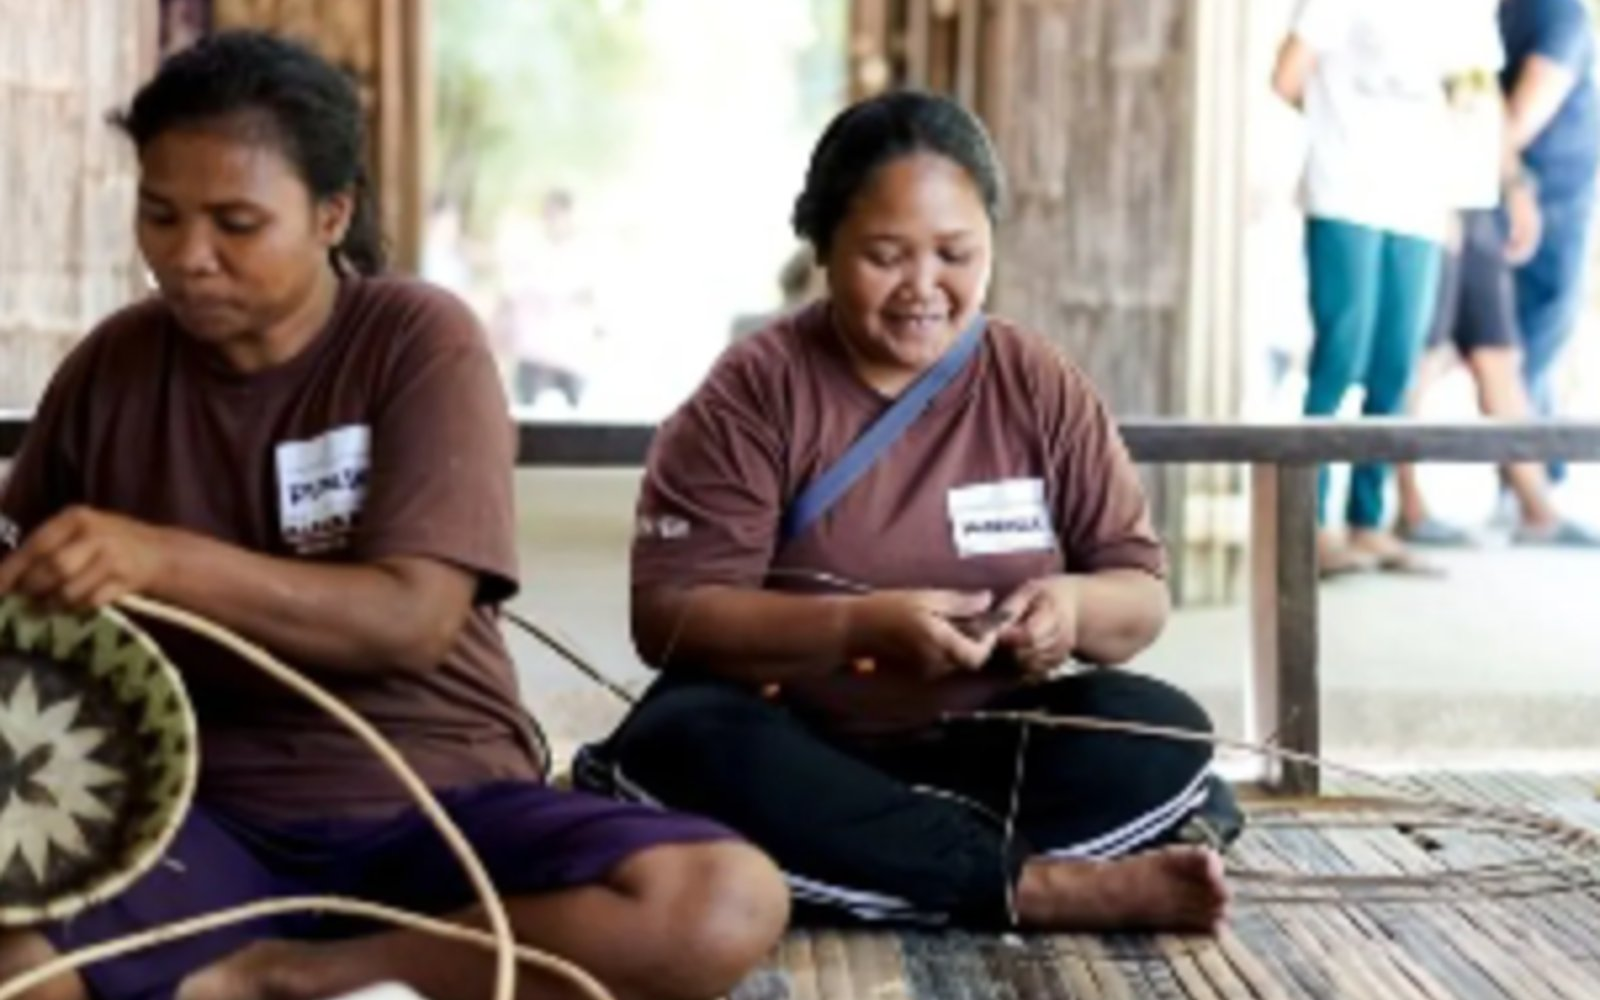
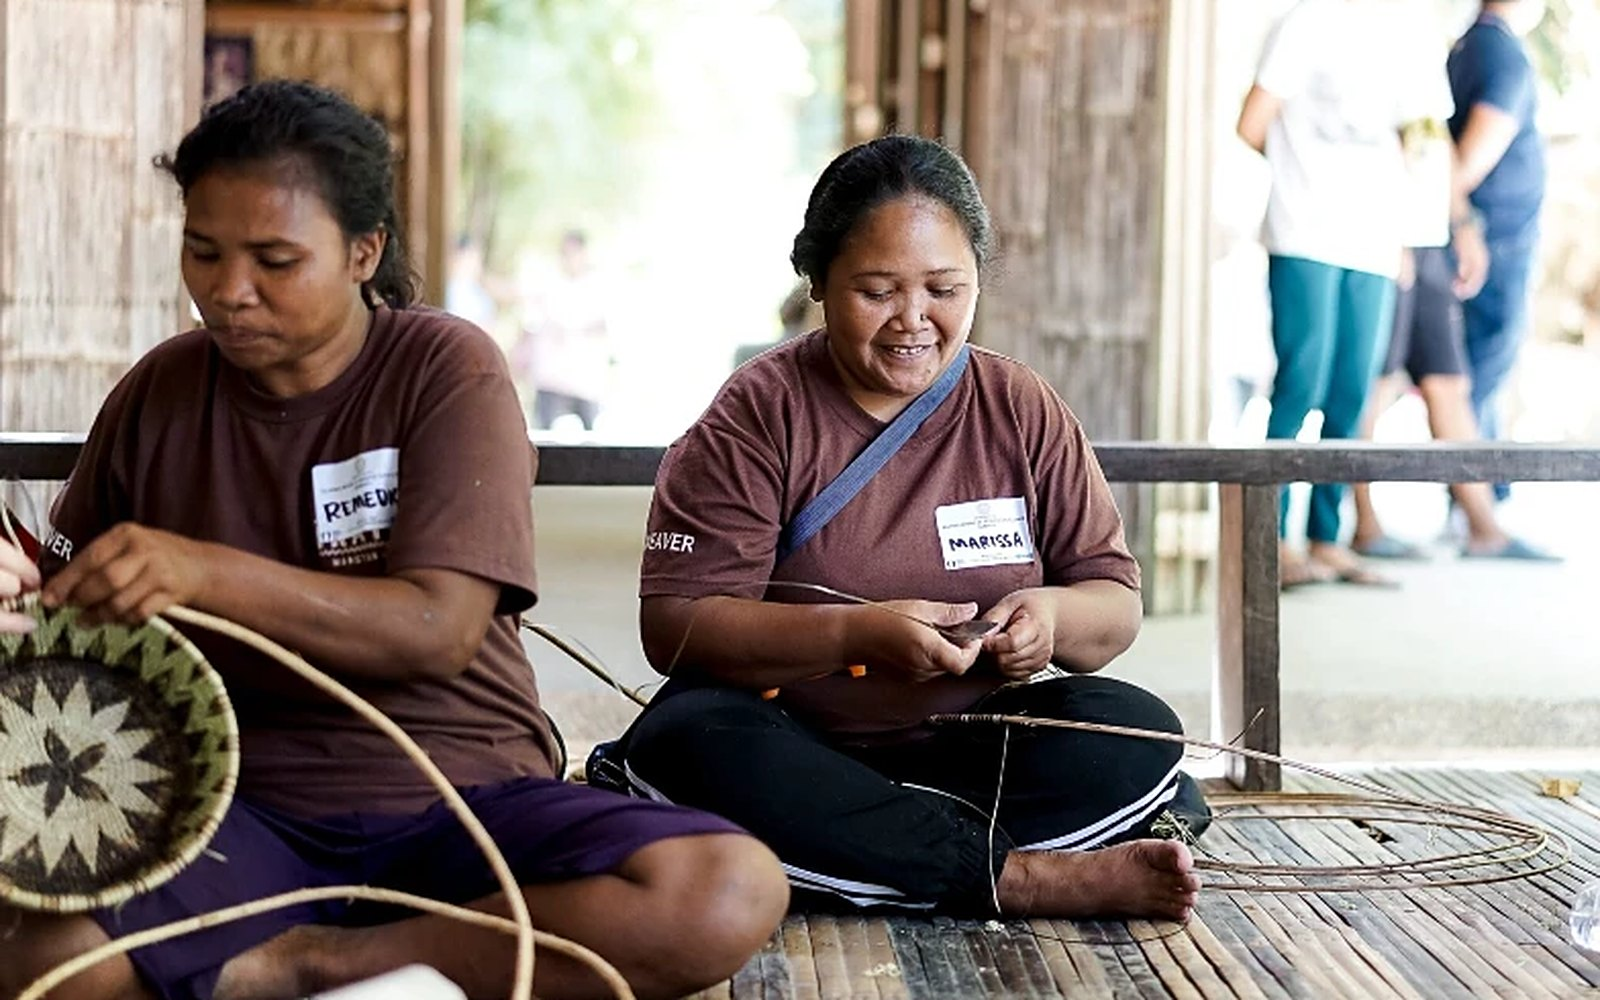
English only for now, blue bottom bar, white All pillars text; new Community photo
- Language switch hidden on the kiosk and the phone (window.LANGUAGES
  in copy.js); Filipino text stays in the files so it can come back
- Bottom bar background is #0320AF
- All pillars button keeps the orange and now has white text and icon
- Community Development card and pillar banner use the new weavers
  photo, cropped to 16:10

Claude-Session: https://claude.ai/code/session_01FqaYk324Zk7nC47oQgm8ZS

diff --git a/app.js b/app.js
@@ -30,7 +30,7 @@
       'chevron-blue-32': chevron(32, '#0322B1'),
       'back': back(28, '#FFFFFF'),
       'back-blue-32': back(32, '#0322B1'),
-      'grid': '<svg width="28" height="28" viewBox="0 0 24 24" fill="none" style="display:block"><rect x="3" y="3" width="7" height="7" rx="1" fill="#041F3F"/><rect x="14" y="3" width="7" height="7" rx="1" fill="#041F3F"/><rect x="3" y="14" width="7" height="7" rx="1" fill="#041F3F"/><rect x="14" y="14" width="7" height="7" rx="1" fill="#041F3F"/></svg>',
+      'grid': '<svg width="28" height="28" viewBox="0 0 24 24" fill="none" style="display:block"><rect x="3" y="3" width="7" height="7" rx="1" fill="#FFFFFF"/><rect x="14" y="3" width="7" height="7" rx="1" fill="#FFFFFF"/><rect x="3" y="14" width="7" height="7" rx="1" fill="#FFFFFF"/><rect x="14" y="14" width="7" height="7" rx="1" fill="#FFFFFF"/></svg>',
       'info': '<svg width="28" height="28" viewBox="0 0 24 24" fill="none" style="display:block"><circle cx="12" cy="12" r="9.5" stroke="#FFFFFF" stroke-width="2.5"/><path d="M12 11v6M12 7.5v.5" stroke="#FFFFFF" stroke-width="2.5" stroke-linecap="round"/></svg>',
       'check-blue': check('#0322B1'),
       'check-orange': check('#F0781E')
@@ -58,7 +58,10 @@
 
   $$('[data-icon]').forEach((el) => { el.innerHTML = ICONS[el.dataset.icon] || ''; el.style.display = 'flex'; el.style.flex = 'none'; });
 
+  // One language: no switch (see window.LANGUAGES in copy.js).
+  const MULTI_LANG = (window.LANGUAGES || ['en', 'fil']).length > 1;
   $$('[data-lang-switch]').forEach((el) => {
+    el.hidden = !MULTI_LANG;
     el.setAttribute('role', 'radiogroup');
     el.setAttribute('aria-label', 'Language');
     el.innerHTML =

diff --git a/index.html b/index.html
@@ -18,7 +18,7 @@
 <link rel="preconnect" href="https://fonts.googleapis.com">
 <link rel="preconnect" href="https://fonts.gstatic.com" crossorigin>
 <link href="https://fonts.googleapis.com/css2?family=Schibsted+Grotesk:wght@400;500;600;700;800&amp;display=swap" rel="stylesheet">
-<link rel="stylesheet" href="styles.css?v=20261019052048">
+<link rel="stylesheet" href="styles.css?v=20261019052509">
 </head>
 <body>
 <div class="viewport">
@@ -190,9 +190,9 @@
 
 </div>
 </div>
-<script src="copy.js?v=20261019052048"></script>
-<script src="programs.js?v=20261019052048"></script>
-<script src="project-view.js?v=20261019052048"></script>
-<script src="app.js?v=20261019052048"></script>
+<script src="copy.js?v=20261019052509"></script>
+<script src="programs.js?v=20261019052509"></script>
+<script src="project-view.js?v=20261019052509"></script>
+<script src="app.js?v=20261019052509"></script>
 </body>
 </html>

diff --git a/mobile.html b/mobile.html
@@ -7,7 +7,7 @@
 <link rel="preconnect" href="https://fonts.googleapis.com">
 <link rel="preconnect" href="https://fonts.gstatic.com" crossorigin>
 <link href="https://fonts.googleapis.com/css2?family=Schibsted+Grotesk:wght@400;500;600;700;800&amp;display=swap" rel="stylesheet">
-<link rel="stylesheet" href="mobile.css?v=20261019052048">
+<link rel="stylesheet" href="mobile.css?v=20261019052509">
 </head>
 <body>
 <div class="page">
@@ -152,9 +152,9 @@
 
 </div>
 </div>
-<script src="copy.js?v=20261019052048"></script>
-<script src="programs.js?v=20261019052048"></script>
-<script src="project-view.js?v=20261019052048"></script>
-<script src="mobile.js?v=20261019052048"></script>
+<script src="copy.js?v=20261019052509"></script>
+<script src="programs.js?v=20261019052509"></script>
+<script src="project-view.js?v=20261019052509"></script>
+<script src="mobile.js?v=20261019052509"></script>
 </body>
 </html>

diff --git a/styles.css b/styles.css
@@ -9,6 +9,7 @@
   --ink: #1C3557;
   --ink-soft: #3D5A80;
   --tint: #EAF1FA;
+  --footer: #0320AF;
   --ease-out: cubic-bezier(0.23, 1, 0.32, 1);
   --ease-in-out: cubic-bezier(0.77, 0, 0.175, 1);
 }
@@ -105,7 +106,7 @@ img { -webkit-user-drag: none; user-select: none; }
 .bar {
   grid-row: 2;
   grid-column: 1 / -1;
-  background: var(--blue-dark);
+  background: var(--footer);
   display: flex;
   align-items: center;
   justify-content: space-between;
@@ -135,7 +136,7 @@ img { -webkit-user-drag: none; user-select: none; }
   align-items: center;
   gap: 14px;
   background: var(--orange);
-  color: var(--navy);
+  color: #FFFFFF;
   font-size: 30px;
   font-weight: 700;
   border-radius: 4px;

diff --git a/mobile.js b/mobile.js
@@ -46,6 +46,9 @@
 
   $$('[data-icon]').forEach((el) => { el.innerHTML = ICONS[el.dataset.icon] || ''; });
 
+  // One language: no switch (see window.LANGUAGES in copy.js).
+  $('.lang').hidden = (window.LANGUAGES || ['en', 'fil']).length < 2;
+
   // Project heroes stay stacked; only the current one shows.
   $('#pjHeroes').innerHTML = Object.keys(PROJECTS).filter((id) => PROJECTS[id].hero).map((id) => {
     const h = PROJECTS[id].hero;

diff --git a/copy.js b/copy.js
@@ -1,4 +1,10 @@
 // English and Filipino copy shared by the kiosk (index.html) and the phone page (mobile.html).
+
+// Languages offered on screen. With one language the English/Filipino switch is
+// hidden. Filipino text stays in this file and programs.js: add 'fil' back to
+// turn the switch on again.
+window.LANGUAGES = ['en'];
+
 window.COPY = {
   en: {
     title: 'Arts and Culture',

diff --git a/README.md b/README.md
@@ -13,6 +13,8 @@ Plain HTML/CSS/JS with no build step. It is built from the Claude Design files "
 - Each screen has its own address, so the phone's back button works: `#pillars`, `#arts`, `#leadership`, `#bigbets`, `#community`, and `#program/<id>` (e.g. `#program/museum`). Older `#programs` and `#project/<id>` links still work
 - Phones that open `index.html` are sent here automatically
 
+**Language:** English only for now. The English/Filipino switch is hidden on both pages, but the Filipino text is still in `copy.js` and `programs.js`. To turn the switch back on, change `window.LANGUAGES = ['en']` to `['en', 'fil']` in `copy.js`.
+
 **Shared**
 
 - `copy.js`: English and Filipino interface text (buttons, headings, pillar pages)
